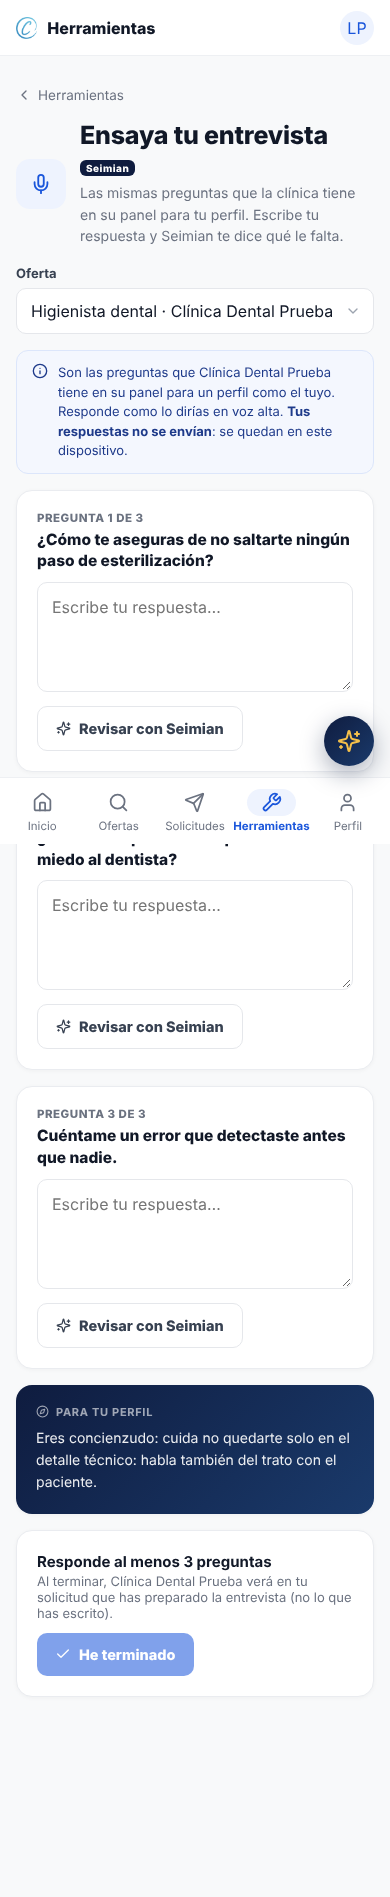
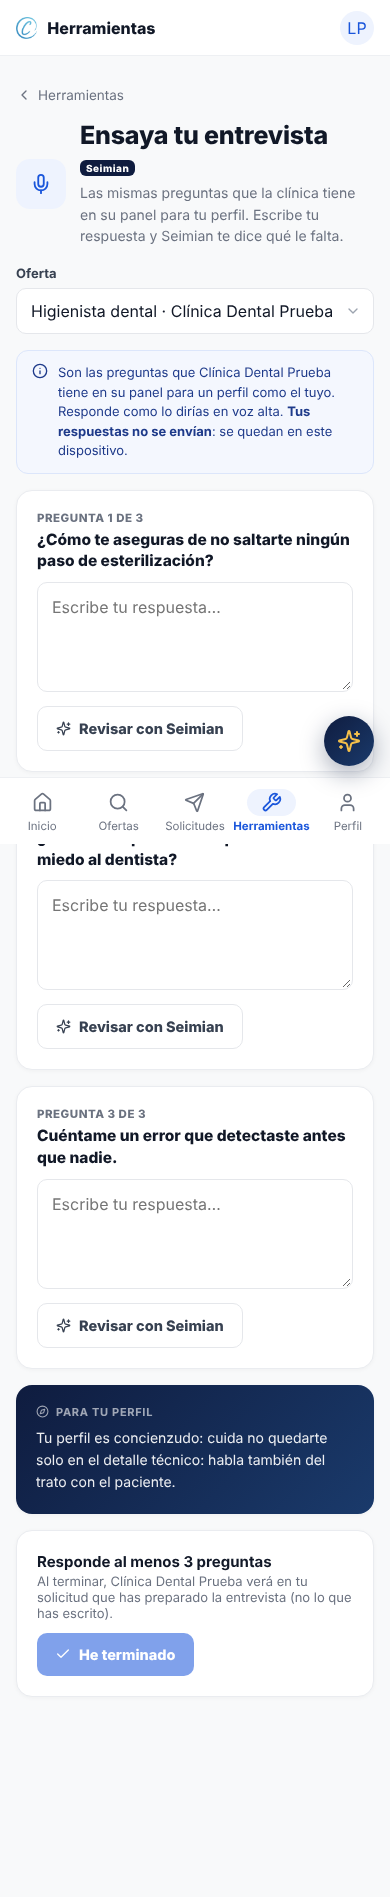
Arreglo: Seimian y Herramientas no dan por hecho el género de la persona
El perfil no guarda el género y deducirlo del nombre falla, así que en lugar
de «Eres concienzudo…» se describe el perfil: «Tu perfil es concienzudo con
rasgo influyente». En el saludo de Seimian y en dos tarjetas de Herramientas.

Claude-Session: https://claude.ai/code/session_01L5qSpH5ECCjMh1xfSpjWDJ

Changed region(s): [[0.0923, 0.7464, 0.8615, 0.8086]]

diff --git a/public/profesional/03-herramientas.js b/public/profesional/03-herramientas.js
@@ -145,7 +145,7 @@ function hEnsayo(){
       + (rv && rv.tips.length ? '<ul class="hr-tips">'+rv.tips.map(function(t){ return '<li>'+esc(t)+'</li>'; }).join('')+'</ul>' : (rv ? '<div class="hr-ok">'+svg('check','#0E9F6E',15)+'Respuesta completa: caso, lo que hiciste y el resultado.</div>' : ''))
       + '</div>';
   });
-  h += '<div class="card dark"><div class="eyebrow" style="color:rgba(255,255,255,.6);">'+svg('compass','rgba(255,255,255,.6)',13)+'PARA TU PERFIL</div><p style="margin:0;font-size:14px;line-height:1.6;color:rgba(255,255,255,.92);">Eres '+NOMBRE[p.disc.dom].toLowerCase()+': cuida '+esc(CUIDA[p.disc.dom])+'</p></div>';
+  h += '<div class="card dark"><div class="eyebrow" style="color:rgba(255,255,255,.6);">'+svg('compass','rgba(255,255,255,.6)',13)+'PARA TU PERFIL</div><p style="margin:0;font-size:14px;line-height:1.6;color:rgba(255,255,255,.92);">Tu perfil es '+NOMBRE[p.disc.dom].toLowerCase()+': cuida '+esc(CUIDA[p.disc.dom])+'</p></div>';
   var lista = hechas >= Math.min(3, qs.length);
   h += '<div class="card"><div style="display:flex;gap:12px;align-items:center;flex-wrap:wrap;"><div style="flex:1;min-width:200px;"><b style="font-size:15px;">'+(lista ? 'Lista para la entrevista' : 'Responde al menos 3 preguntas')+'</b><div style="font-size:13px;color:var(--muted);margin-top:2px;">'
     + (sol ? 'Al terminar, '+esc(o.clinica||'la clínica')+' verá en tu solicitud que has preparado la entrevista (no lo que has escrito).' : 'Si luego solicitas esta oferta, la clínica verá que la has preparado.')+'</div></div>'
@@ -363,7 +363,7 @@ function clinicasQueTeBuscan(){
 function hEncajas(){
   var p = S.perfil || {}; if(!p.disc) return '<div class="aviso aviso-info">'+svg('compass','#1E3A8A',16)+'<span>Haz el test para saber dónde encajas. <button class="link" onclick="abrirTest(false)">Hacer el test</button></span></div>';
   var l = clinicasQueTeBuscan(), d = p.disc;
-  var h = '<div class="card dark"><div style="display:flex;gap:14px;align-items:center;"><div class="disc-big" style="background:'+COLOR[d.dom]+';width:48px;height:48px;font-size:19px;border-radius:13px;">'+d.dom+'</div><div style="font-size:14px;line-height:1.6;color:rgba(255,255,255,.92);">Eres <b style="color:#fff;">'+NOMBRE[d.dom]+'</b> con rasgo '+NOMBRE[d.sec].toLowerCase()+'. Aportas '+esc(APORTA[d.dom])+'.</div></div></div>';
+  var h = '<div class="card dark"><div style="display:flex;gap:14px;align-items:center;"><div class="disc-big" style="background:'+COLOR[d.dom]+';width:48px;height:48px;font-size:19px;border-radius:13px;">'+d.dom+'</div><div style="font-size:14px;line-height:1.6;color:rgba(255,255,255,.92);">Tu perfil es <b style="color:#fff;">'+NOMBRE[d.dom]+'</b> con rasgo '+NOMBRE[d.sec].toLowerCase()+'. Aportas '+esc(APORTA[d.dom])+'.</div></div></div>';
   if(!l.length) h += '<div class="vacio"><b>Ahora mismo ninguna clínica de tu zona tiene ese hueco</b><p>Las clínicas actualizan el perfil de su equipo cuando su gente hace el test. Te avisaremos cuando una busque tu forma de trabajar.</p></div>';
   else l.forEach(function(x){
     var o = x.o, k = kmDe(o, p.geo), s = solDeOferta(o.id), c = x.eq.comp || {};

diff --git a/public/profesional/01-portal.js b/public/profesional/01-portal.js
@@ -2429,7 +2429,7 @@ function abrirSeimian(){
   var hola = 'Hola' + (p.nombre ? ', ' + esc(primerNom(p.nombre)) : '') + '. ';
   if(!p.disc) hola += 'Aún no has hecho el test de personalidad. Sin él no puedo decirte qué ofertas te encajan ni prepararte la entrevista.';
   else if(!p.video) hola += 'Tu perfil está casi listo. Lo que más te ayudaría ahora es un vídeo corto: las clínicas lo ven antes que el CV.';
-  else hola += 'Eres ' + NOMBRE[p.disc.dom].toLowerCase() + ' con rasgo ' + NOMBRE[p.disc.sec].toLowerCase() + '. ¿Miramos qué ofertas te encajan más?';
+  else hola += 'Tu perfil es ' + NOMBRE[p.disc.dom].toLowerCase() + ' con rasgo ' + NOMBRE[p.disc.sec].toLowerCase() + '. ¿Miramos qué ofertas te encajan más?';
   seiDice(hola, true);
   try{ $('sei-q').focus({preventScroll:true}); }catch(e){}
 }

diff --git a/pruebas/e2e/10-recorrido.spec.js b/pruebas/e2e/10-recorrido.spec.js
@@ -451,6 +451,9 @@ test('8. El resto de pantallas del profesional se ven bien y sin errores', async
   await page.fill('#sei-q', '¿Cómo van mis solicitudes?');
   await page.keyboard.press('Enter');
   await expect(page.locator('#sei-msgs')).toContainText('Tienes 2 solicitudes', { timeout: 10_000 });
+  // Seimian no da por hecho el género: describe el perfil («Tu perfil es concienzudo…»)
+  await expect(page.locator('#sei-msgs')).toContainText('Tu perfil es concienzudo con rasgo influyente');
+  await expect(page.locator('#sei-msgs')).not.toContainText('Eres concienzudo');
   await capturar(page, 'pro-33-seimian', { tapar: [page.locator('#sei-msgs')] });
   expect(page.erroresPagina).toEqual([]);
 });
